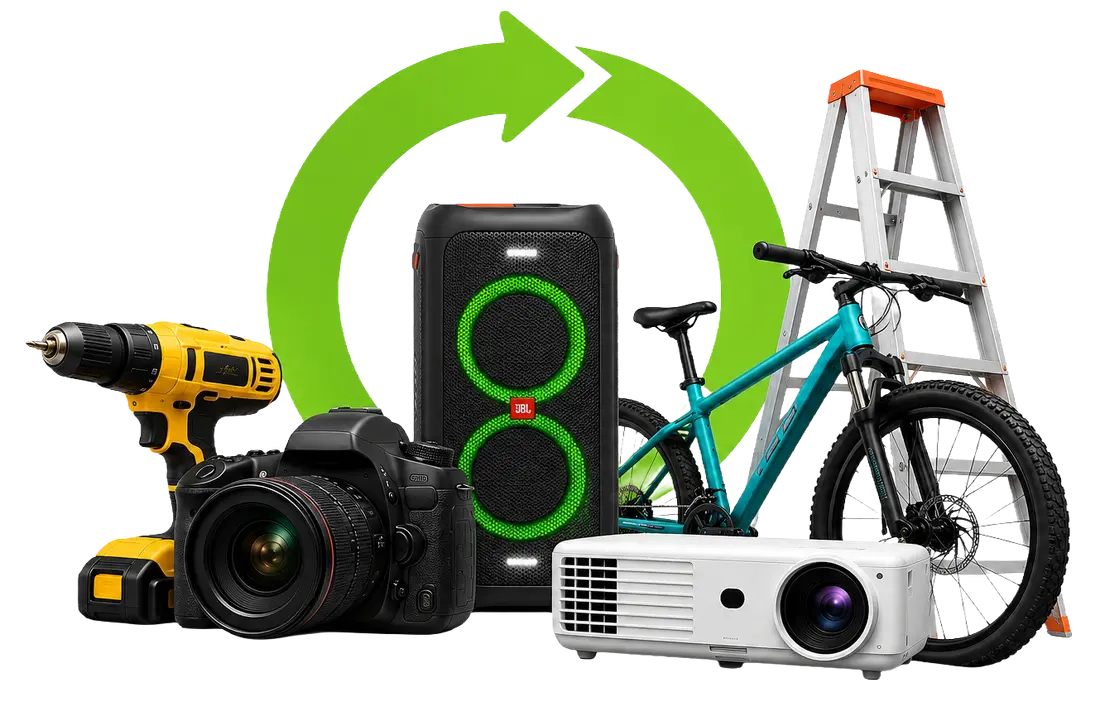
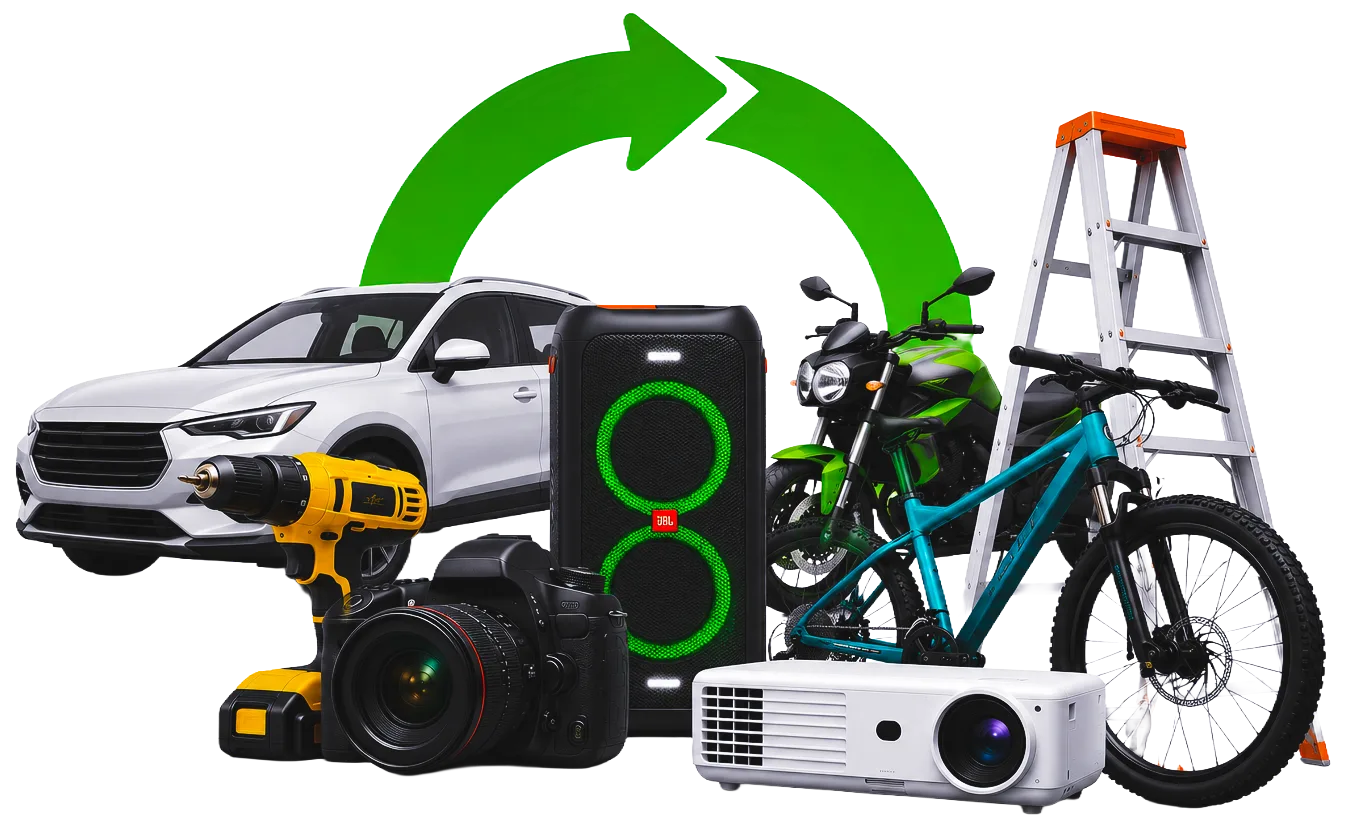
feat: nova imagem do hero (carro + moto) na web e no app mobile
Substitui a imagem de itens do hero (public/logos/hero-items.webp + fonte
hero-source.png + apps/mobile/assets/hero-items.webp) pela nova arte com
carro, moto, furadeira, câmera, caixa de som, projetor, bicicleta e escada
(fundo transparente). PNG 1346x820 convertido p/ webp (sharp, q82, alpha),
175 KB.

- app/page.tsx: width/height 1100x702 -> 1346x820 (novo aspect ratio, sem
  distorção via h-auto) + alt text atualizado
- apps/mobile: heroImage height 147 -> 140 (proporção 1.641) + accessibilityLabel

Confirmado renderizando em device (app Android; mesmo código serve iOS).

diff --git a/apps/mobile/app/(tabs)/index.tsx b/apps/mobile/app/(tabs)/index.tsx
@@ -161,15 +161,15 @@ export default function HomeScreen() {
         </Text>
 
         {/* Hero image — fonte: app/page.tsx linha ~159
-            <Image src="/logos/hero-items.webp" width={1100} height={702}
+            <Image src="/logos/hero-items.webp" width={1346} height={820}
                    className="h-auto w-[230px]" priority />
-            Dimensões mobile: w=230px, h≈147px (proporção 1100/702 ≈ 1.567) */}
+            Dimensões mobile: w=230px, h≈140px (proporção 1346/820 ≈ 1.641) */}
         <Image
           // eslint-disable-next-line @typescript-eslint/no-require-imports
           source={require("../../assets/hero-items.webp")}
           style={styles.heroImage}
           resizeMode="contain"
-          accessibilityLabel="Itens disponíveis para alugar no ShareO: furadeira, câmera, caixa de som, bicicleta, escada e projetor."
+          accessibilityLabel="Itens disponíveis para alugar no ShareO: carro, moto, furadeira, câmera, caixa de som, projetor, bicicleta e escada."
         />
 
         <Text style={styles.subtitle}>Tudo perto de você.</Text>
@@ -308,7 +308,7 @@ const styles = StyleSheet.create({
   // Dimensões: 230px × 147px (proporção 1100/702 ≈ 1.567)
   heroImage: {
     width: 230,
-    height: 147,
+    height: 140,
     alignSelf: "center",
     marginTop: 16,
     marginBottom: 4,

diff --git a/app/page.tsx b/app/page.tsx
@@ -158,9 +158,9 @@ export default async function HomePage() {
             <div className="mb-8 flex flex-col items-center gap-3">
               <Image
                 src="/logos/hero-items.webp"
-                alt="Itens disponíveis para alugar no ShareO: furadeira, câmera, caixa de som, bicicleta, escada e projetor."
-                width={1100}
-                height={702}
+                alt="Itens disponíveis para alugar no ShareO: carro, moto, furadeira, câmera, caixa de som, projetor, bicicleta e escada."
+                width={1346}
+                height={820}
                 priority
                 sizes="(min-width: 1024px) 420px, (min-width: 768px) 380px, 230px"
                 className="h-auto w-[230px] md:w-[380px] lg:w-[420px]"
